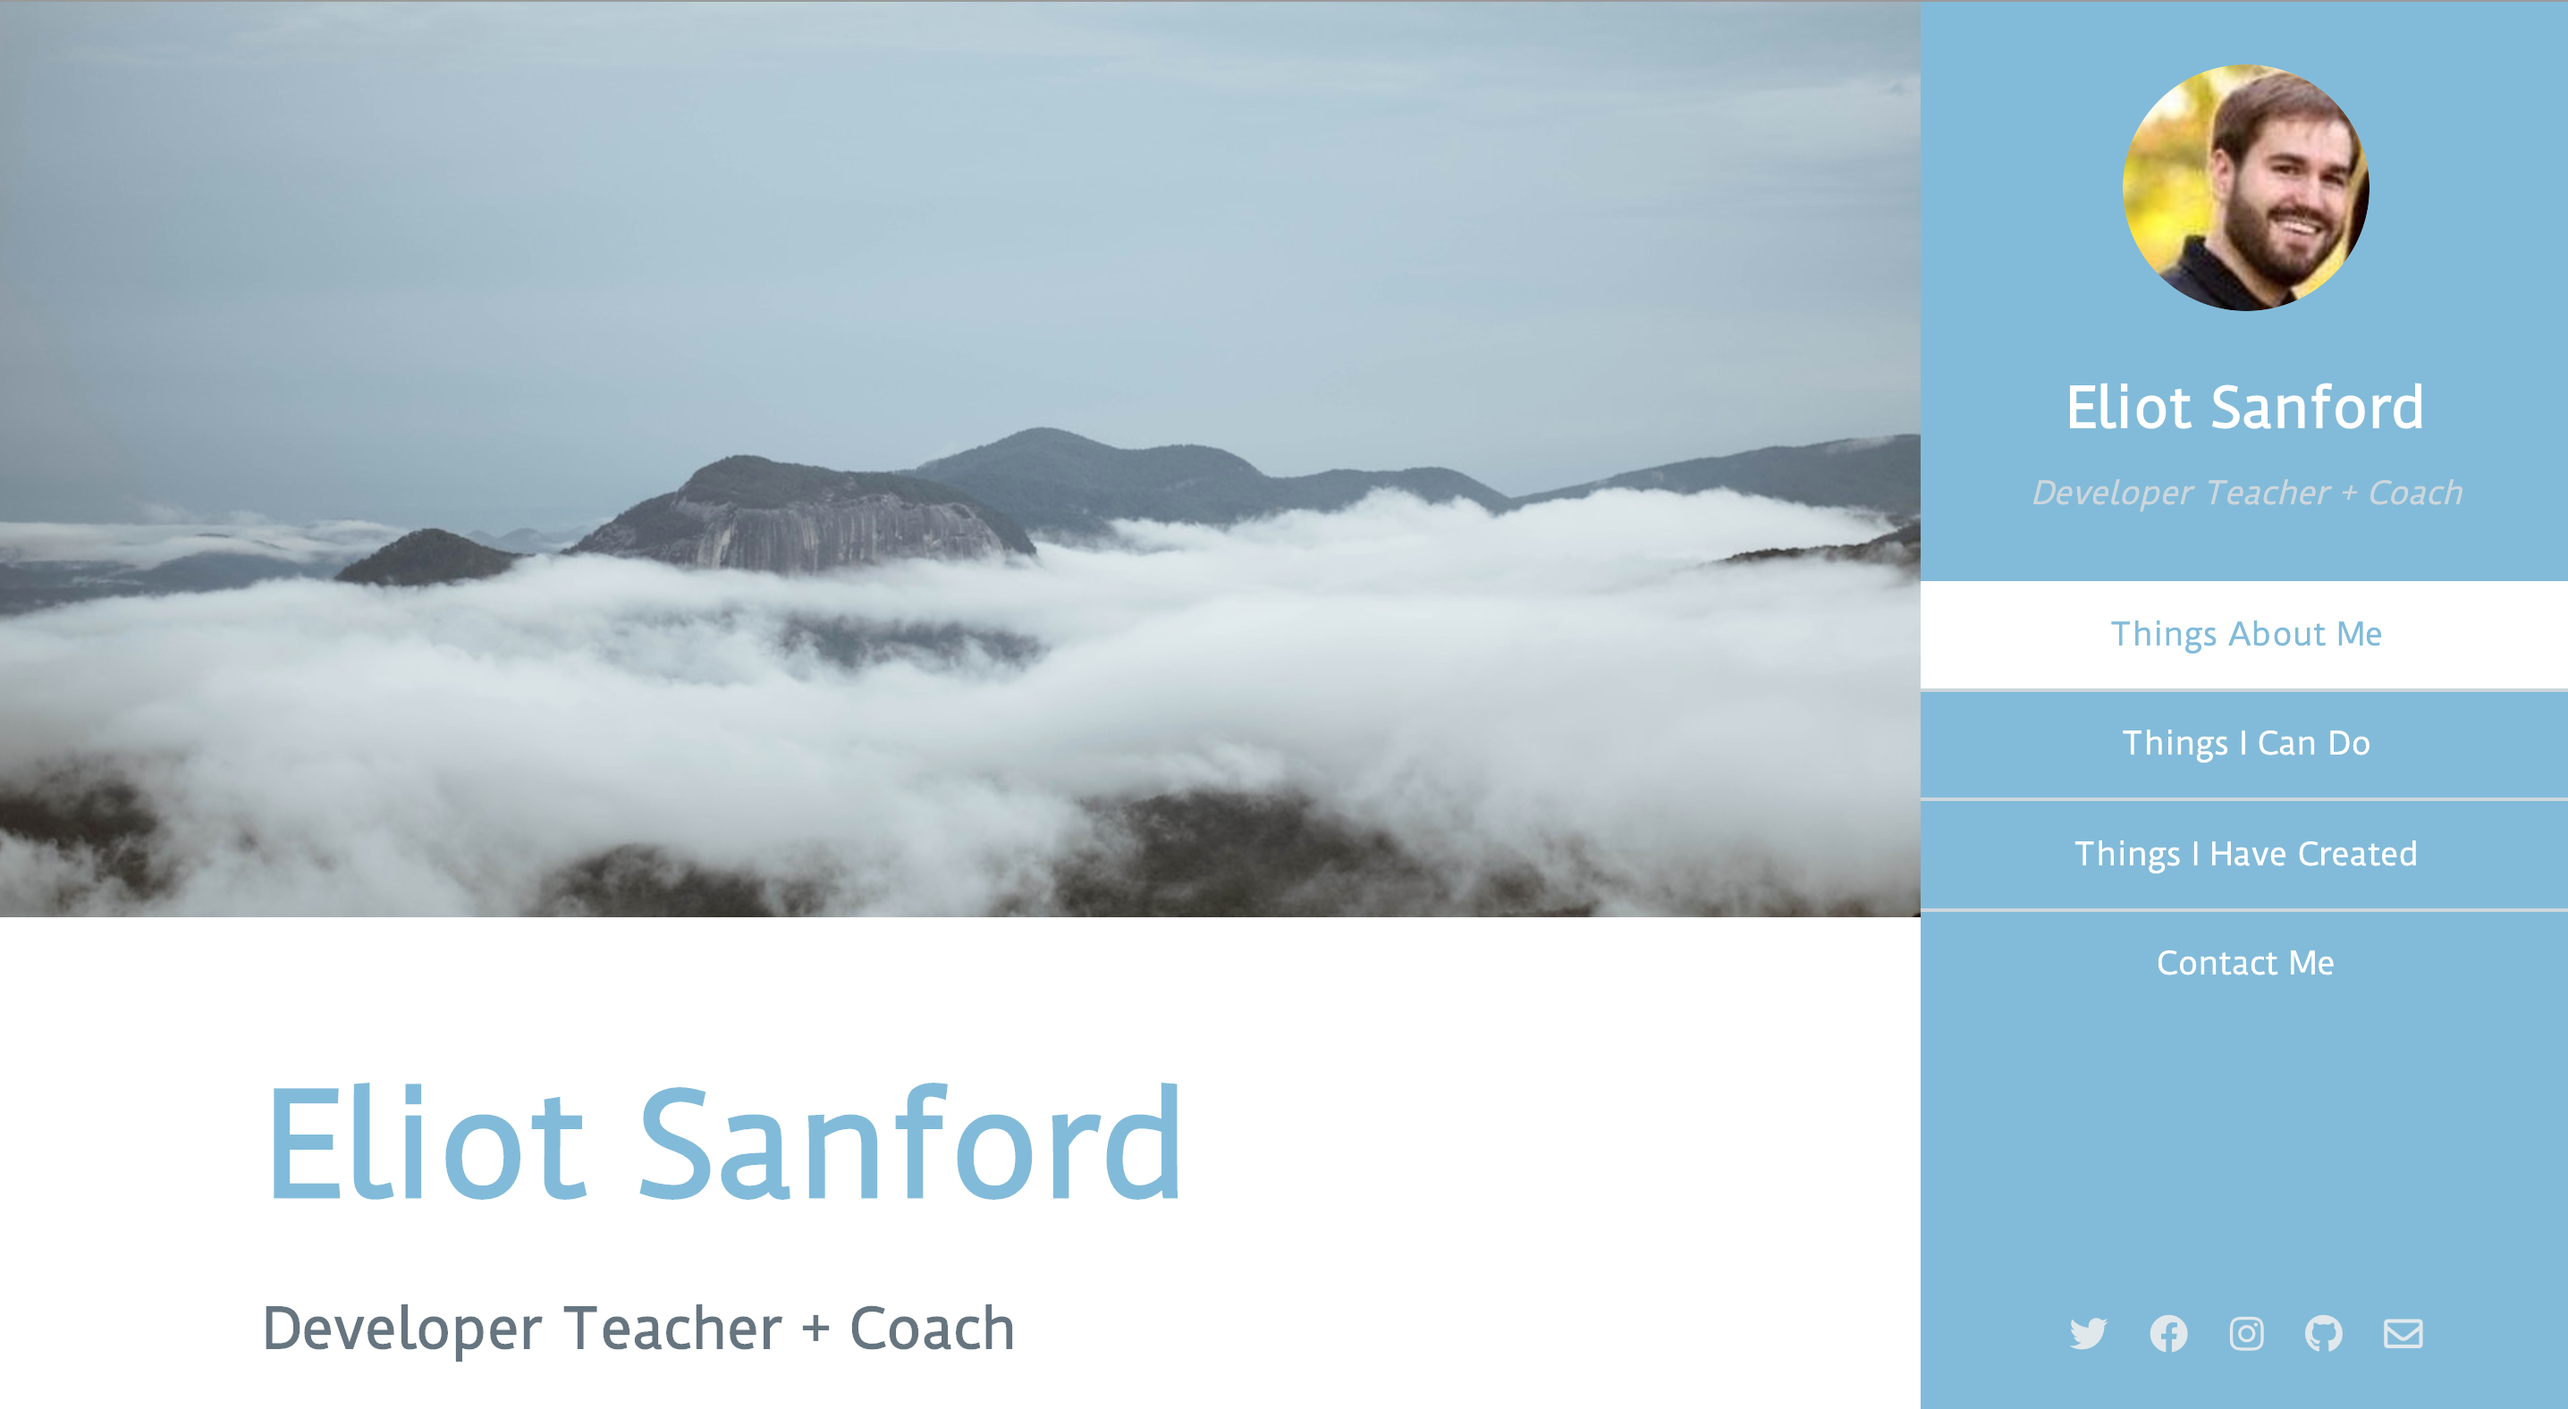
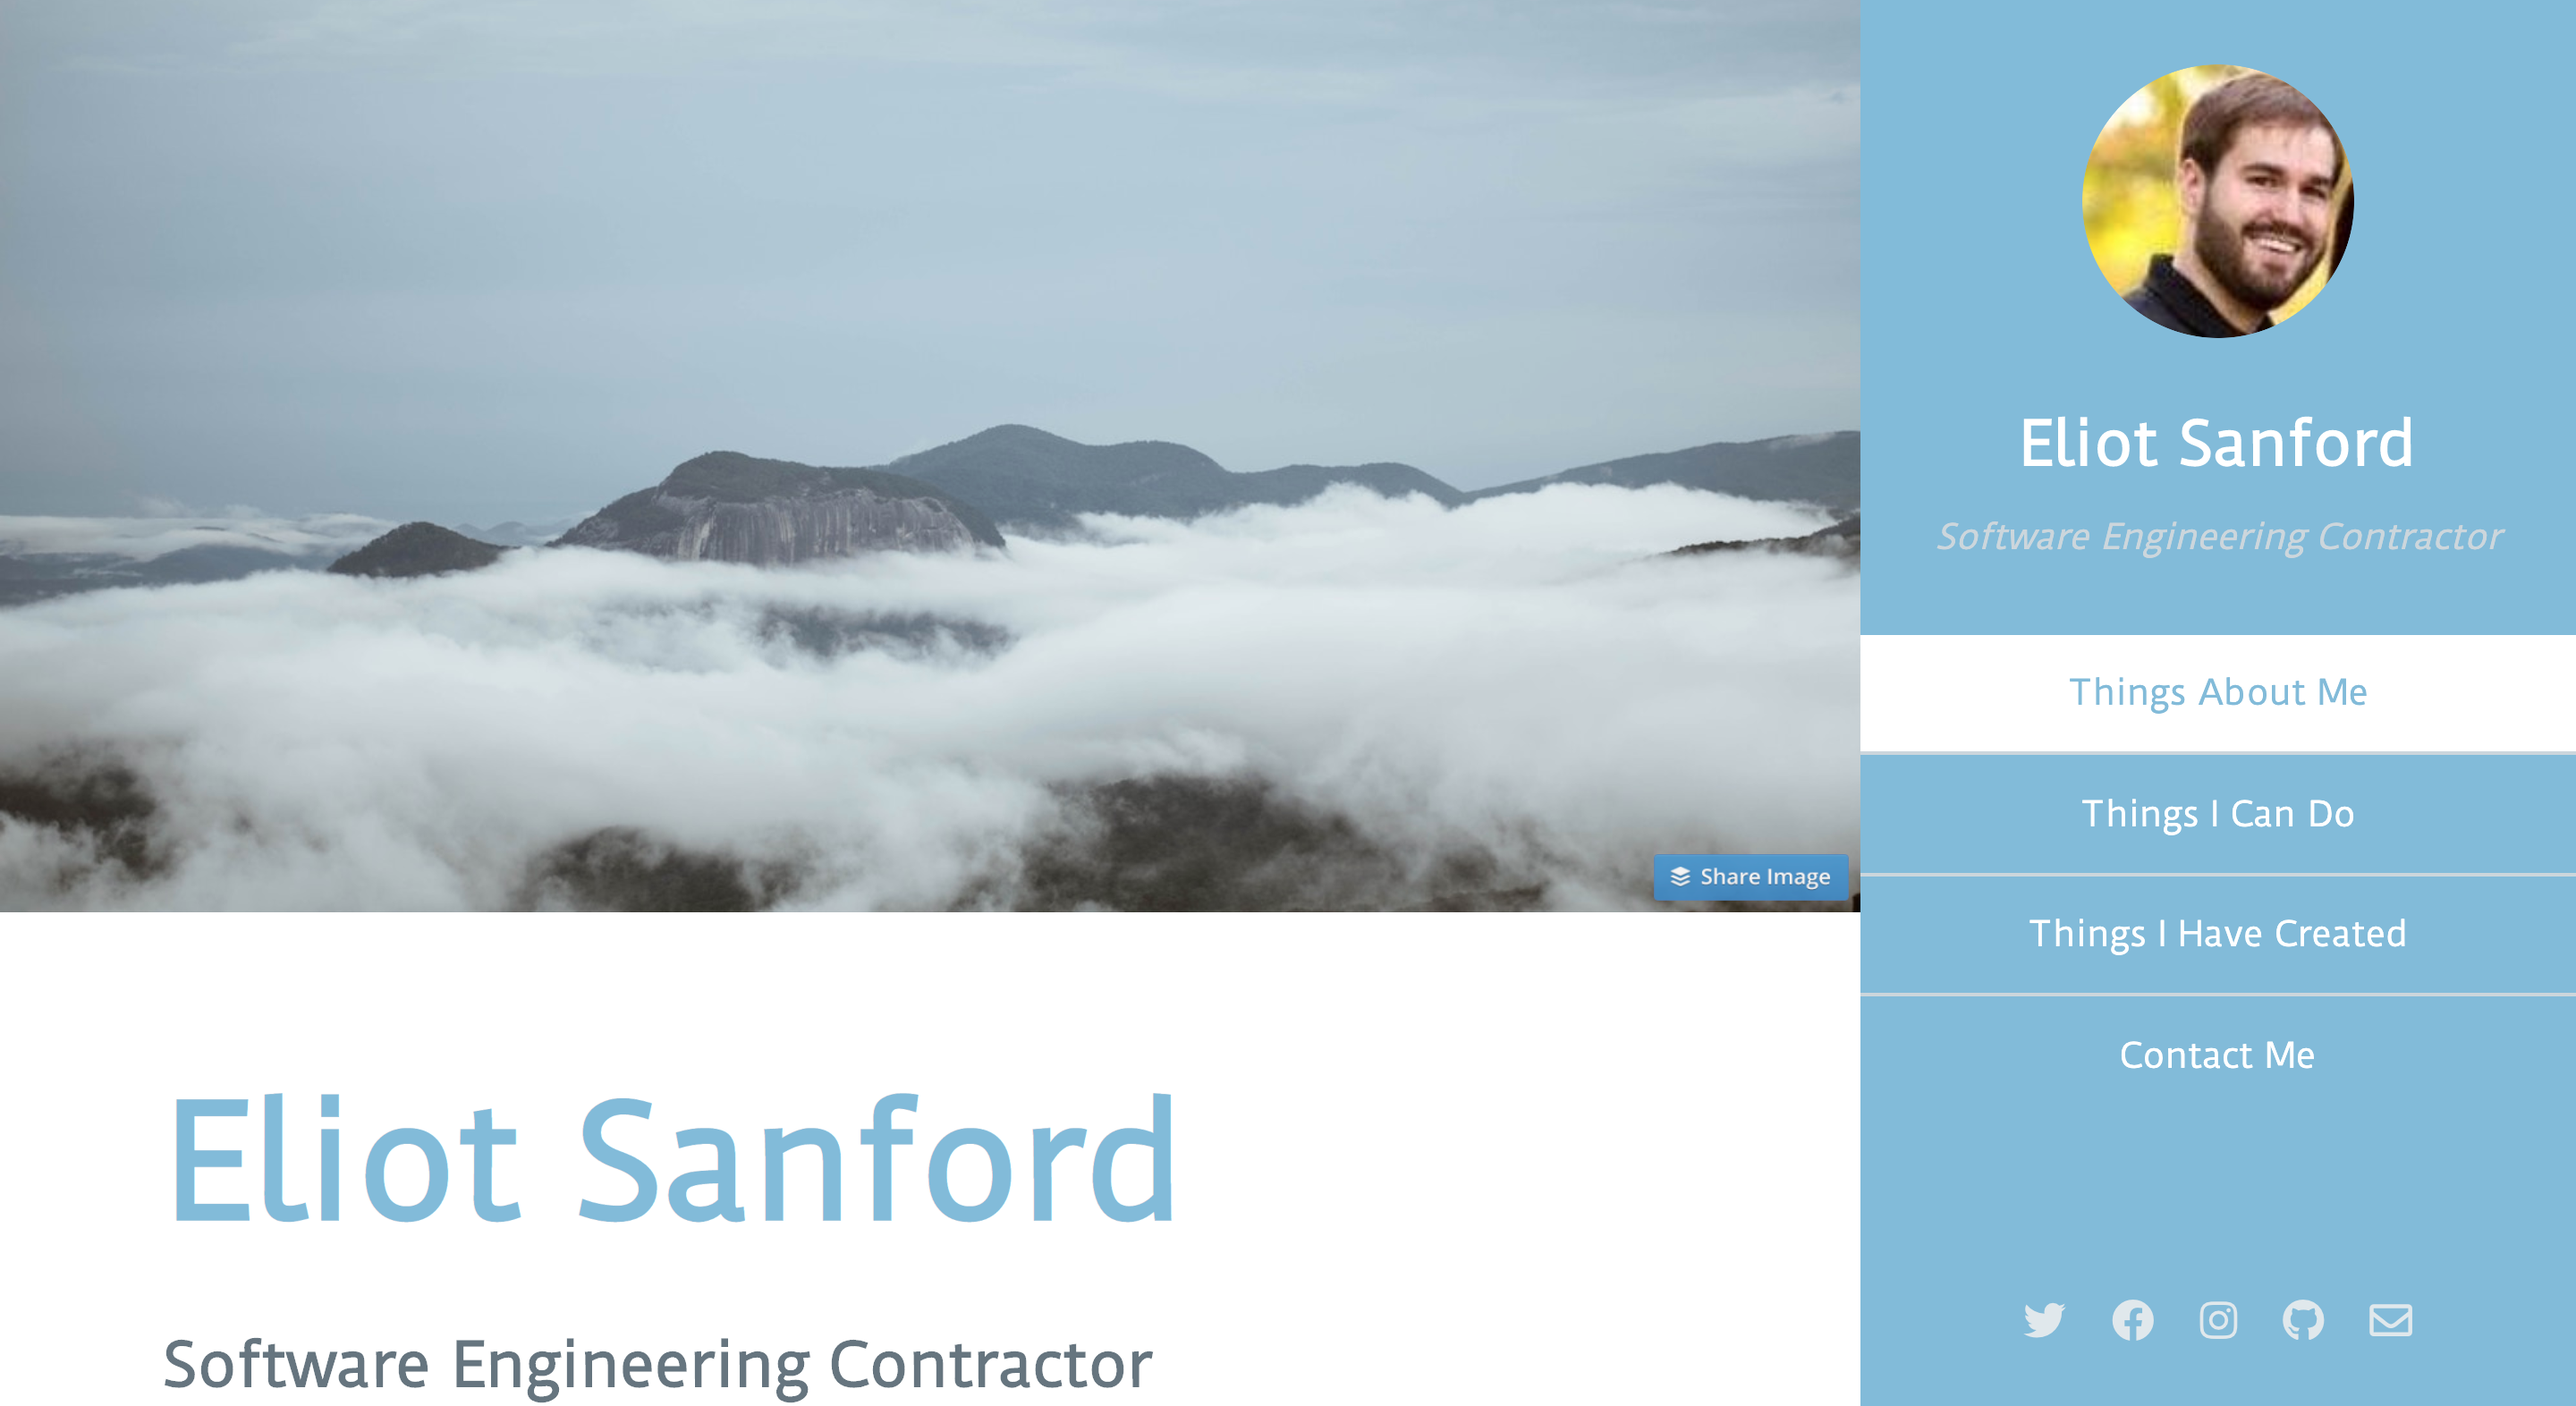
add a button with resume link, change my role, and change css for feature - alter title and change color to black between feature articles closes #35 closes #36

diff --git a/index.html b/index.html
@@ -25,7 +25,7 @@
 					<h1 id="logo">
 						<a href="#one">Eliot Sanford</a>
 					</h1>
-					<p class="monospace">Developer Teacher + Coach</p>
+					<p class="monospace">Software Engineering Contractor</p>
 				</header>
 				<nav id="nav">
 					<ul>
@@ -60,15 +60,35 @@
 								<div class="container">
 									<header class="major">
 										<h2>Eliot Sanford</h2>
-										<p class="monospace">Developer Teacher + Coach</p>
+										<p class="monospace">Software Engineering Contractor</p>
 									</header>
 									<article>
 										<h3>Welcome to my portfolio page!</h3>
 										<p class="bio-section">I'm excited to share with you some things about me, 
-											what I can do, and have created. I'm currently a full-time high school tech teacher 
-											making a career switch as a web developer. For the past two years, I've been learning 
-											on my own including projects, then at the end of last year I joined a bootcamp in the 
-											evenings. Please browse below and contact me via 
+											what I can do, and have created. I'm currently seeking a full-time role and provide consultation
+											for small businesses as a software engineering contractor. 
+											I taught myself to code five years, and since then, I've always been learning 
+											on my own including developing automated tasks at work, creating personal projects, and 
+											organizing virtual and in-person study groups. I taught myself front-end and back-end 
+											web development while working 
+											as support staff at law firms. I began working as a tech consultant in 2018, and 
+											where I enjoyed building websites, tools, and applications for businesses. 
+											Then in 2019, I transitioned into 
+											teaching web development at a local private school. 
+											At the end of 2019, I joined a bootcamp in the 
+											evenings to mainly receive help with my job search and fill some gaps in 
+											my back-end programming knowledge.
+										</p>
+										<div class="inner">
+											<ul class="feature-icons">	
+												<li>
+													<a href="https://drive.google.com/file/d/1i4mhoFFhAci7rMYGI_ArMhYH6HQ1WM1j/view" target="_blank" rel="noopener noreferrer">
+														<button class="button primary icon fa-file">Please view and share my Resume</button>
+													</a>
+												</li>
+											</ul>
+										</div>
+										<p>Please browse below and contact me via 
 											<a href="#four">the form at the bottom of this page</a>, 
 											<a href="https://twitter.com/techieEliot" target="_blank">Twitter</a>, or 
 											<a href="mailto:techieEliot@gmail.com">my email</a>.

diff --git a/assets/css/main.css b/assets/css/main.css
@@ -2638,7 +2638,7 @@ input, select, textarea {
 /* Features */
 
 	.features article {
-		border-top: solid 3px #f4f4f4;
+		border-top: solid 3px #2a2a40;
 		margin-bottom: 2.25em;
 		padding-top: 2.25em;
 	}
